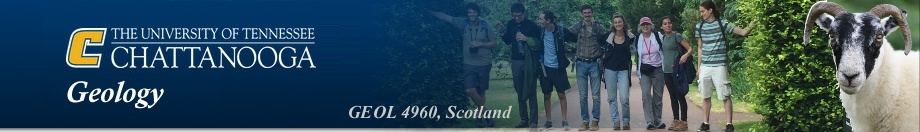
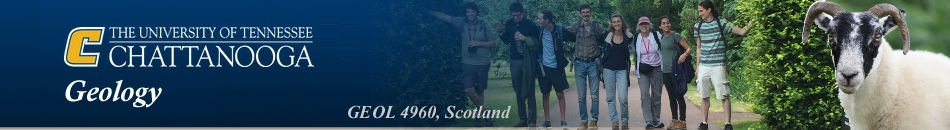
Add files via upload

diff --git a/scot18/scot18.html b/scot18/scot18.html
@@ -1,24 +1,50 @@
 <!DOCTYPE HTML PUBLIC "-//W3C//DTD HTML 4.01 Transitional//EN">
 <html><head>
+
+
+
+
+
+
+
+
   
   <meta content="text/html;charset=ISO-8859-1" http-equiv="Content-Type">
 
   
-  <meta name="GENERATOR" content="Adobe PageMill 3.0 Mac">
-  <title>J.W. Mies - Scotland, 2018</title>
+  <meta name="GENERATOR" content="Adobe PageMill 3.0 Mac"><title>J.W. Mies - Scotland, 2018</title></head><body style="background-color: rgb(255, 255, 255); width: 1195px;">
+<img style="width: 950px; height: 130px;" alt="" src="banner_4960scot.jpg"><br style="font-weight: bold;">
+<br style="font-weight: bold;">
+<table style="text-align: left; width: 950px;" border="0" cellpadding="2" cellspacing="2">
+  <tbody>
+    <tr>
+      <td style="vertical-align: middle; width: 10%;"><span style="font-weight: bold;">VIDEOS</span><br>
+      <br>
+      <span style="font-style: italic;">hosted on YouTube</span><br>
+      </td>
+      <td style="vertical-align: middle; width: 15%;"><a href="https://www.youtube.com/watch?v=oOTMdi2AwuU&amp;feature=youtu.be" target="_blank">Conival, 2018</a><br>
+      <br>Our climb of Conival (3-minute excerpt from 15-minute video, right)<br>
+      </td>
+      <td style="vertical-align: middle; width: 30%; text-align: left;"><a href="https://www.youtube.com/watch?v=oOTMdi2AwuU&amp;feature=youtu.be"><img style="border: 0px solid ; width: 270px; height: 130px;" alt="" src="xconival.jpg"></a><br>
+      </td>
+      <td style="vertical-align: middle; width: 15%;"><a href="https://www.youtube.com/watch?v=E1uCILCbjX4&amp;feature=youtu.be" target="_blank">Scotland, 2018</a><br>
+      <br>Our 2018 field trip to Scotland (15 minutes)<br>
+      </td>
+      <td style="vertical-align: middle; width: 30%; text-align: left;"><a href="https://www.youtube.com/watch?v=E1uCILCbjX4&amp;feature=youtu.be"><span style="text-decoration: underline;"><img style="border: 0px solid ; width: 270px; height: 130px;" alt="" src="xscotvid.jpg"></span></a><br>
+      </td>
+    </tr>
+  </tbody>
+</table>
+<br>
 
-  
-</head><body style="background-color: rgb(255, 255, 255); width: 1195px;">
-<img style="width: 920px; height: 132px;" alt="" src="banner_4960scot.jpg"><br>
-
+<big><big><span style="font-weight: bold;"></span></big></big><span style="font-weight: bold;">PHOTOS (scroll down)</span><br>
 <br>
 
 <table style="width: 950px; height: 449px;" border="0" cellpadding="2" cellspacing="2">
 
   <tbody>
     <tr>
-      <td style="text-align: left; width: 30%;"><span style="font-weight: bold;">On our journeys around Edinburgh we visited
-the castle, Calton Hill, Salisbury Crags, and the National Muesum, all
+      <td style="text-align: left; width: 30%;"><span style="font-weight: bold;">On our journeys around Edinburgh, with visits to Edinburgh Castle, Calton Hill, Salisbury Crags, and the National Muesum, all
 on foot.</span><br>
       <br>
 July 12-13, 2018<br>
